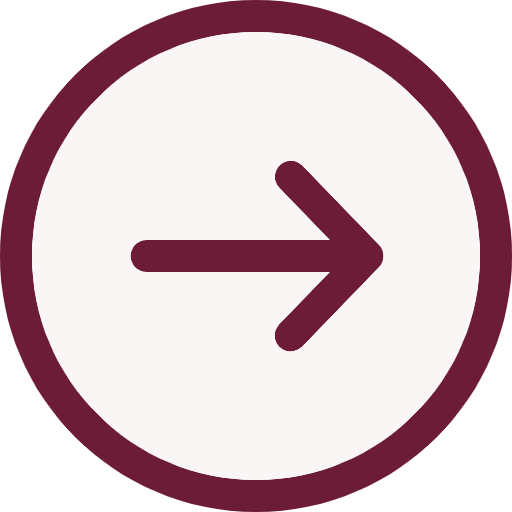
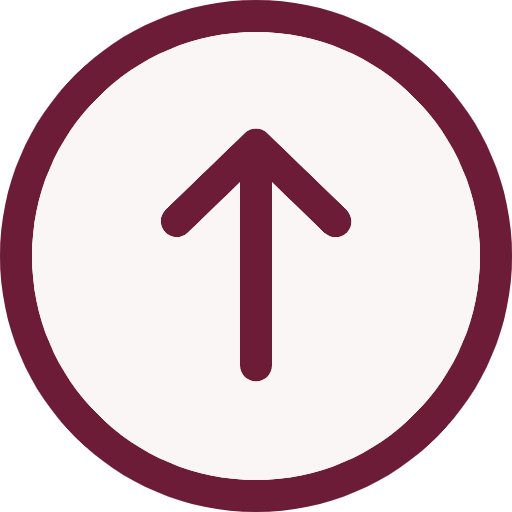
Carrusel de miniaturas

Changed region(s): [[0.4688, 0.4062, 0.75, 0.75], [0.25, 0.25, 0.5938, 0.5312]]

diff --git a/frontend/css/style.css b/frontend/css/style.css
@@ -511,6 +511,113 @@ body {
           transform: scale(1.1);
       }
 
+      /* ====== CARRUSEL DE MINIATURAS (SCENE SELECTOR) ====== */
+        #carrusel-container {
+            position: fixed;
+            bottom: 0;
+            left: 0;
+            width: 100%;
+            background: rgba(108, 28, 52, 0.85); /* Usa tu color institucional #6c1c34 con transparencia */
+            backdrop-filter: blur(10px);
+            transition: transform 0.3s ease-in-out;
+            z-index: 40; /* Por debajo del chat pero encima del visor */
+            display: flex;
+            flex-direction: column;
+            align-items: center;
+        }
+
+        #carrusel-container.colapsado {
+            transform: translateY(100%);
+        }
+
+        #carrusel-container.oculto {
+            display: none !important;
+        }
+
+        #btn-toggle-carrusel {
+            position: absolute;
+            top: -40px;
+            left: 50%;
+            transform: translateX(-50%);
+            width: 50px;
+            height: 40px;
+            border-radius: 15px 15px 0 0;
+            border-bottom: none;
+            background: rgba(108, 28, 52, 0.85);
+            color: white;
+            z-index: 41;
+            border: none;
+            box-shadow: 0 -4px 6px rgba(0,0,0,0.1);
+        }
+
+        #carrusel-scroll {
+            display: flex;
+            gap: 15px;
+            padding: 15px 20px;
+            overflow-x: auto;
+            width: 100%;
+            box-sizing: border-box;
+            scroll-behavior: smooth;
+        }
+
+        /* Ocultar scrollbar visual pero permitir scroll táctil/ratón */
+        #carrusel-scroll::-webkit-scrollbar { height: 6px; }
+        #carrusel-scroll::-webkit-scrollbar-thumb { background: rgba(255,255,255,0.4); border-radius: 10px; }
+        #carrusel-scroll::-webkit-scrollbar-track { background: transparent; }
+
+        .miniatura {
+            min-width: 130px;
+            width: 130px;
+            height: 85px;
+            border-radius: 8px;
+            background-size: cover;
+            background-position: center;
+            cursor: pointer;
+            position: relative;
+            overflow: hidden;
+            border: 3px solid transparent;
+            transition: transform 0.2s, border-color 0.2s;
+            flex-shrink: 0;
+            box-shadow: 0 4px 6px rgba(0,0,0,0.3);
+        }
+
+        .miniatura:hover {
+            transform: scale(1.05);
+        }
+
+        .miniatura.activa {
+            border-color: #61cb35; /* Verde institucional brillante */
+            transform: scale(1.05);
+            box-shadow: 0 0 12px rgba(97, 203, 53, 0.8);
+        }
+
+        .miniatura-titulo {
+            position: absolute;
+            bottom: 0;
+            left: 0;
+            width: 100%;
+            background: rgba(0,0,0,0.7);
+            color: white;
+            font-size: 11px;
+            padding: 5px;
+            text-align: center;
+            box-sizing: border-box;
+            white-space: nowrap;
+            overflow: hidden;
+            text-overflow: ellipsis;
+            font-family: 'Montserrat', sans-serif;
+        }
+
+        /* Transiciones para que la UI flote cuando se abre el carrusel */
+        #contenedor-info-escena, #contenedor-brujula {
+            transition: transform 0.3s ease-in-out;
+        }
+
+        body.carrusel-abierto #contenedor-info-escena,
+        body.carrusel-abierto #contenedor-brujula {
+            transform: translateY(-115px); /* Sube la UI la altura del carrusel */
+        }
+
       /* ====== RESPONSIVE: TABLETS (max 768px) ====== */
       @media (max-width: 768px) {
 

diff --git a/frontend/js/app.js b/frontend/js/app.js
@@ -29,7 +29,22 @@ async function cargarRecorrido(nombreLab) {
         if (!respuesta.ok) throw new Error("Laboratorio no encontrado");
 
         const mapa = await respuesta.json();
-        visorActual = iniciarVisor(mapa);
+        visorActual = iniciarVisor(mapa, (idNodoActual) => {
+            actualizarCarruselActivo(idNodoActual);
+            
+            if (carruselContainer.classList.contains('oculto')) {
+                carruselContainer.classList.remove('oculto');
+                
+                setTimeout(() => {
+                    carruselContainer.classList.remove('colapsado');
+                    document.body.classList.add('carrusel-abierto');
+                }, 50);
+            }
+        });
+        renderizarCarrusel(mapa);
+        carruselContainer.classList.add('oculto');
+        carruselContainer.classList.add('colapsado');
+        document.body.classList.remove('carrusel-abierto');
 
         const chatContainer = document.getElementById('chat-container');
         chatContainer.classList.add('oculto');
@@ -73,15 +88,23 @@ const chatContainer = document.getElementById('chat-container');
 const btnSend = document.getElementById('btn-chat-send');
 const inputChat = document.getElementById('chat-input');
 const messagesDiv = document.getElementById('chat-messages');
+const carruselContainer = document.getElementById('carrusel-container');
+const carruselScroll = document.getElementById('carrusel-scroll');
+const btnToggleCarrusel = document.getElementById('btn-toggle-carrusel');
+const iconoCarrusel = document.getElementById('icono-carrusel');
 
 btnHome.addEventListener('click', () => {
     // 1. Mostrar el menú de inicio con animación
     const menuInicio = document.getElementById('menu-inicio');
     menuInicio.style.display = 'flex';
+    
 
     setTimeout(() => {
         menuInicio.style.opacity = '1';
     }, 10);
+
+    carruselContainer.classList.add('oculto');
+    document.body.classList.remove('carrusel-abierto');
 
     // 2. Mostrar el chat automáticamente
     document.getElementById('chat-container').classList.add('oculto');
@@ -188,3 +211,68 @@ function agregarMensajeUI(texto, tipo) {
     messagesDiv.scrollTop = messagesDiv.scrollHeight;
     return div.id;
 }
+
+// --- LÓGICA DEL CARRUSEL ---
+
+function renderizarCarrusel(mapa) {
+    carruselScroll.innerHTML = ''; // Limpiar carrusel anterior
+
+    Object.keys(mapa.nodos).forEach(idNodo => {
+        const nodo = mapa.nodos[idNodo];
+
+        const miniatura = document.createElement('div');
+        miniatura.className = 'miniatura';
+        miniatura.id = `thumb-${idNodo}`;
+
+        // Usamos la imagen panorámica como miniatura (el CSS background-size: cover hace la magia)
+        miniatura.style.backgroundImage = `url('${nodo.imagen_url}')`;
+
+        const titulo = document.createElement('div');
+        titulo.className = 'miniatura-titulo';
+        titulo.innerText = nodo.titulo;
+        titulo.title = nodo.titulo; // Tooltip nativo por si el texto es muy largo
+
+        miniatura.appendChild(titulo);
+
+        // Evento para viajar a ese nodo al hacer clic
+        miniatura.addEventListener('click', () => {
+            if (visorActual && !miniatura.classList.contains('activa')) {
+                // Opcional: Cerrar chat en móviles al navegar para ver bien la pantalla
+                if (window.innerWidth <= 768) {
+                    chatContainer.classList.add('oculto');
+                }
+                visorActual.cargarNodo(idNodo);
+            }
+        });
+
+        carruselScroll.appendChild(miniatura);
+    });
+}
+
+function actualizarCarruselActivo(idNodoActual) {
+    // Quitar clase activa a todos
+    document.querySelectorAll('.miniatura').forEach(thumb => {
+        thumb.classList.remove('activa');
+    });
+
+    // Poner clase activa al nodo actual
+    const miniaturaActiva = document.getElementById(`thumb-${idNodoActual}`);
+    if (miniaturaActiva) {
+        miniaturaActiva.classList.add('activa');
+        // Hacer scroll automático para que la miniatura activa quede visible en el centro
+        miniaturaActiva.scrollIntoView({ behavior: 'smooth', block: 'nearest', inline: 'center' });
+    }
+}
+
+// Botón para colapsar/expandir el carrusel
+btnToggleCarrusel.addEventListener('click', () => {
+    carruselContainer.classList.toggle('colapsado');
+
+    if (carruselContainer.classList.contains('colapsado')) {
+        iconoCarrusel.innerText = 'expand_less'; // Flecha hacia arriba
+        document.body.classList.remove('carrusel-abierto');
+    } else {
+        iconoCarrusel.innerText = 'expand_more'; // Flecha hacia abajo
+        document.body.classList.add('carrusel-abierto');
+    }
+});

diff --git a/frontend/index.html b/frontend/index.html
@@ -24,7 +24,7 @@
                     Escuela Superior de Física y Matemáticas (ESFM)
                 </button>
                 
-                <button class="btn-recorrido" data-lab="lanta">
+                <button class="btn-recorrido" data-lab="esimez">
                     <span class="material-symbols-outlined">satellite_alt</span>
                     Laboratorio Nacional de Antenas (LANTA)
                 </button>
@@ -75,6 +75,7 @@
       <h1 id="titulo-ubicacion">Cargando...</h1>
     </div>
 
+
     <div id="tooltip-hotspot" class="oculto"></div>
 
     <script type="module" src="/js/app.js"></script>
@@ -102,6 +103,13 @@
             <input type="text" id="chat-input" placeholder="Pregúntale a Jasper...">
             <button id="btn-chat-send"><span class="material-symbols-outlined">send</span></button>
         </div>
+    </div>
+    <div id="carrusel-container" class="oculto">
+        <button id="btn-toggle-carrusel" class="btn-control">
+            <span class="material-symbols-outlined" id="icono-carrusel">expand_more</span>
+        </button>
+        <div id="carrusel-scroll">
+            </div>
     </div>
   </body>
 </html>

diff --git a/frontend/js/three_core/scene.js b/frontend/js/three_core/scene.js
@@ -67,7 +67,7 @@ function estilizarFlecha(el, direccion) {
     }
 }
 
-export function iniciarVisor(mapa) {
+export function iniciarVisor(mapa, onNodeChange) {
     const escena = new THREE.Scene();
     const camara = new THREE.PerspectiveCamera(75, window.innerWidth / window.innerHeight, 0.1, 1000);
     camara.position.set(0, 0, 0.1);
@@ -271,6 +271,7 @@ export function iniciarVisor(mapa) {
 
                 controles.reset();
                 telon.style.opacity = '0';
+                if (onNodeChange) onNodeChange(idNodo);
             });
         }, 200);
     }